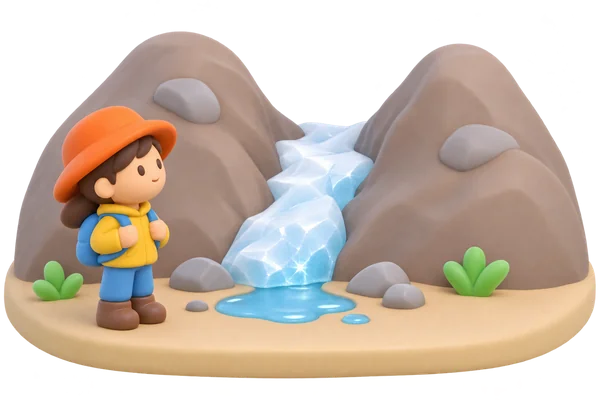
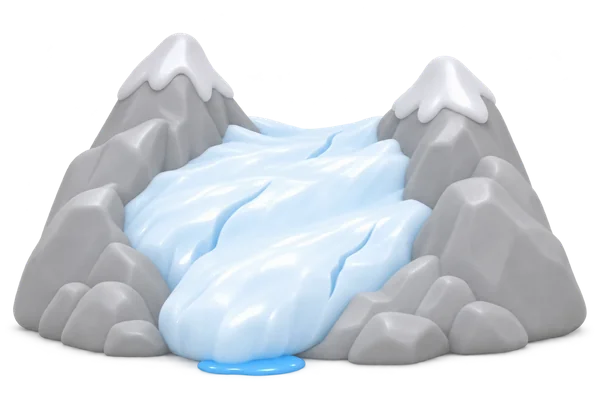
몰디브·빙하 그림 교체 (사람 없는 몰디브, 얼음덩어리 빙하)
Claude-Session: https://claude.ai/code/session_014YCySyUap8gqvZYoXUpgmB

diff --git a/todo.md b/todo.md
@@ -195,7 +195,7 @@ climate-lab/
 - [x] (Codex) SVG 그림 묶음 A~D — PR #1 (임시판)
 - [x] (11/6) 입체 수조·컵·육지 막대, 금속 배지 케이스·메달 배지 (Opus)
 - [x] (11/9) 3D 그림 15장: 교사가 ChatGPT로 생성 → Opus가 WebP 변환·연결 (Codex 대신, 11/12 일정 때문)
-- [ ] 몰디브(사람이 물에 잠긴 모습)·빙하(폭포처럼 보임) 다시 생성 → 같은 이름 WebP로 교체 (`docs/image-prompts.md` 8장)
+- [x] 몰디브(사람 없이)·빙하(얼음덩어리) 다시 생성해 교체 (11/9, `docs/image-prompts.md` 8장)
 - [ ] (M3 담당 참고) ④ 화면에 임무 표시를 넣고 싶으면 `src/features/game/Mission.tsx`의 `<MissionChip id="cards" />`를 쓴다. 브리핑은 App이 자동으로 띄운다
 
 ### M3. ④ 영향 탐사 카드 (11/6~11/10) · 담당 GPT 6.1 (그림은 Codex) — concept.md 5.2, design.md 2.5·5.6·6.1, data.md 5장
